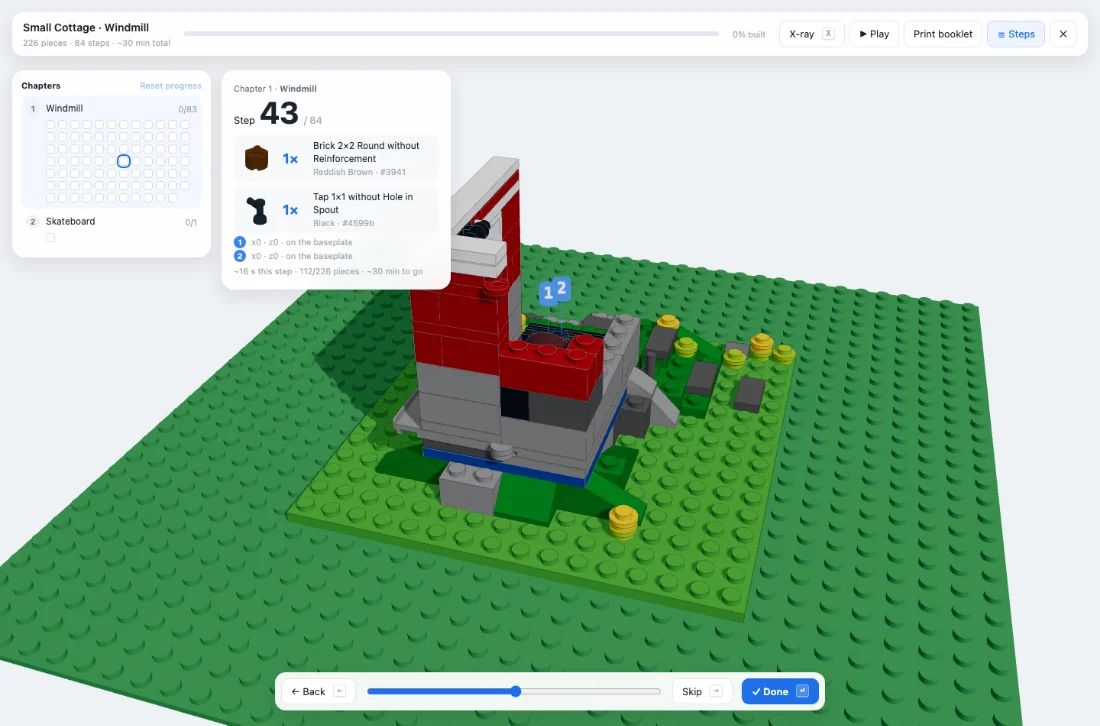
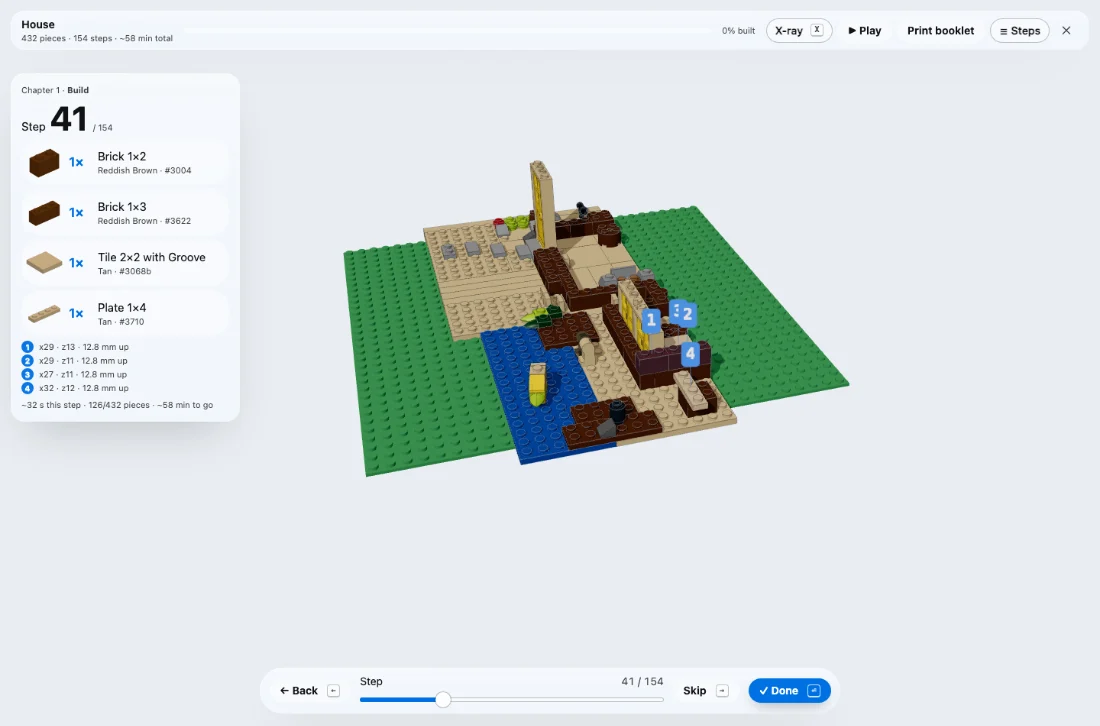
feat(home): show Brick-forge on Pane with the migrated interface; chain Kiln to Pane to Brick-forge

diff --git a/src/components/home/PaneModal.tsx b/src/components/home/PaneModal.tsx
@@ -6,10 +6,10 @@ import styles from './ProjectModal.module.css'
 import { PANE_PROJECT, PANE_STATS as P } from './paneData'
 
 const SECTIONS: ProjectSection[] = [
-  { label: 'The rules came first', body: "Before any component I wrote a short set of rules, and everything was held to them. The photo is part of the design. Glass shows the scene instead of covering it. Readability over a photo depends on the photo, which means every value comes from measuring real pixels. A formula can only guess. Each pane has one loud action, and a reader never has to choose between two equal ones. Pages meant for reading, like the docs, stay plain, because a photo only competes with the words. Glass is a mood and never carries meaning. When someone turns on reduced transparency or high contrast, the glass becomes solid surfaces and everything still works." },
-  { label: 'Calls that changed the design', body: "I picked the look from four rendered options. They were a visionOS-style grey glass, a milk frost, a smoked glass and a layered one. My first working version then laid a grey tint over the photo to keep the text readable, and it turned every photo into a flat grey panel. I rejected it. Pane now keeps the glass almost clear and darkens the photo behind it a little. Later I asked for thinner glass than the safest setting allowed. I kept it thin and wrote down exactly where a few words fall a little short, instead of pretending everything passes. I also made the docs plain. They first wore the glass look and were hard to read, and glass now appears only on the demos." },
+  { label: 'The rules came first', body: "Before any component I wrote a short set of rules, and everything was held to them. The photo is part of the design. Glass lets the scene show through. Readability over a photo depends on the photo, which means every value comes from measuring real pixels. A formula can only guess. Each pane has one loud action, and a reader never has to choose between two equal ones. Pages meant for reading, like the docs, stay plain, because a photo only competes with the words. Glass is a mood and never carries meaning. When someone turns on reduced transparency or high contrast, the glass becomes solid surfaces and everything still works." },
+  { label: 'Calls that changed the design', body: "I picked the look from four rendered options. They were a visionOS-style grey glass, a milk frost, a smoked glass and a layered one. My first working version then laid a grey tint over the photo to keep the text readable, and it turned every photo into a flat grey panel. I rejected it. Pane now keeps the glass almost clear and darkens the photo behind it a little. Later I asked for thinner glass than the safest setting allowed. I kept it thin and wrote down exactly where a few words fall a little short. I also made the docs plain. They first wore the glass look and were hard to read, and glass now appears only on the demos." },
   { label: 'Turning no into a check', body: "I looked at the first Banner and called it AI slop. It was a pattern library's notification with glass painted on top. The fault was in how we worked, because every component started from what other libraries do. Now each one starts from the reasons in those rules. The system proposes three options, I pick one, and only then is code written. A check blocks component code until that step is done. Each complaint I made went the same way. It changed the step that produced the problem and added a check that catches it. The same mistake can't come back quietly. Claude Code did much of the building. I set the direction, chose between options and said no." },
-  { label: 'What it can’t do yet', body: "A web page can’t see the photo behind a pane. The app has to tell Pane how bright its background is, and if it says the wrong thing, text becomes hard to read. I’ve only measured in Chrome, not Safari or Firefox. I haven’t tested with screen readers or real users. Ten of the early components came before the new process and are waiting to be redesigned. Pane isn’t on npm yet, and nobody else uses it." },
+  { label: 'What it can’t do yet', body: "A web page can’t see the photo behind a pane. The app has to tell Pane how bright its background is, and if it says the wrong thing, text becomes hard to read. I’ve only measured in Chrome, not Safari or Firefox. I haven’t tested with screen readers or real users. Ten of the early components came before the new process and are waiting to be redesigned. Pane isn’t on npm yet, and nobody else uses it. My own app, Brick-forge, runs on it, and its 3D scene is why Pane is getting an option to turn the blur off." },
 ]
 
 interface PaneModalProps {
@@ -27,7 +27,7 @@ export function PaneModal({ open, onClose }: PaneModalProps) {
       title="Making text readable on glass over a photo"
       intro={`Pane is a design system for glass-style interfaces, like the floating windows in visionOS, built for the web. I directed it and built it with Claude Code, using Kiln, a design-system plugin I made. It is live, with ${P.components} components and a docs site you can open. The hard part of glass is that the text sits on whatever photo is behind it, and Pane is built around keeping the words readable.`}
       sections={SECTIONS}
-      technical={`Pane ships as two packages. pane-tokens holds ${P.tokens} tokens in three tiers (primitive, semantic and component), built to CSS, JSON, ESM and SCSS. pane-react holds ${P.components} components and bundles the tokens. One import of pane-react/all.css is enough. Behaviour for Select, Slider, Checkbox, Radio and Switch comes from Radix and the look is Pane's. The tokens are built by my own script rather than Style Dictionary, because it needs to enforce the three tiers and catch name collisions. The docs site is built on Vite and React, and the contrast evidence comes from Playwright scripts that render each surface and read its pixels. The docs run on Cloudflare Pages and the code is on GitHub at tanawitchsaentree/pane-design-system. Kiln is public at github.com/tanawitchsaentree/Kiln.`}
+      technical={`Pane ships as two packages. pane-tokens holds ${P.tokens} tokens in three tiers (primitive, semantic and component), built to CSS, JSON, ESM and SCSS. pane-react holds ${P.components} components and bundles the tokens. One import of pane-react/all.css is enough. Behaviour for Select, Slider, Checkbox, Radio and Switch comes from Radix and the look is Pane's. The tokens are built by my own script, which enforces the three tiers and catches name collisions. The docs site is built on Vite and React, and the contrast evidence comes from Playwright scripts that render each surface and read its pixels. The docs run on Cloudflare Pages and the code is on GitHub at tanawitchsaentree/pane-design-system. Kiln is public at github.com/tanawitchsaentree/Kiln.`}
       url={PANE_PROJECT.docsUrl}
       linkLabel="Open the Pane docs"
       cover={

diff --git a/src/components/home/BrickForgeModal.tsx b/src/components/home/BrickForgeModal.tsx
@@ -9,7 +9,7 @@ const SECTIONS: ProjectSection[] = [
   {
     label: 'It starts from a designer’s model',
     body: "Every result says where it came from, like “From Apple Tree House, 1 stud longer”. The engine keeps the designer’s parts, copies a middle section and rebuilds only the seams. It learns from about 545 official LEGO designs, and every result is still the designer’s model with a change made to it. A My pieces switch shows how many parts you would still need to buy for each design.",
-    figure: { src: '/images/brickforge-studio.webp', alt: 'Three house designs in the Brick-forge studio, each labelled with the official set it came from, how it was changed and how much of it is held together.', caption: 'Three houses from three official sets (LDraw Official Model Repository, CC BY 2.0). Each card shows what it was changed from and how much of it is held together.', width: 1000, height: 726 },
+    figure: { src: '/images/brickforge-studio.webp', alt: 'Three house designs in the Brick-forge studio, each labelled with the official set it came from, how it was changed and how much of it is held together.', caption: 'Three houses from two official sets (LDraw Official Model Repository, CC BY 2.0). Each card shows what it was changed from, including a recolour, and how much of it is held together.', width: 1000, height: 756 },
   },
   {
     label: 'Why it edits real designs',
@@ -23,7 +23,12 @@ const SECTIONS: ProjectSection[] = [
   {
     label: 'Instructions that follow the designer',
     body: "Official and imported models keep the designer’s own step order, split into small steps. Progress is saved and the booklet prints. It can also read a LEGO instruction PDF and match the parts it draws to the parts list.",
-    figure: { src: '/images/brickforge-steps.webp', alt: 'The step view of a small cottage at step 43 of 84, listing two parts for the step and showing the model on a green baseplate.', caption: 'Step 43 of 84 for the windmill on a small cottage, in the designer’s order.', width: 1100, height: 726 },
+    figure: { src: '/images/brickforge-steps.webp', alt: 'The step view of a generated house at step 41 of 154, listing four parts for the step and showing the model on a green baseplate.', caption: 'Step 41 of 154 for a generated house.', width: 1100, height: 726 },
+  },
+  {
+    label: 'It runs on Pane',
+    body: "The interface is built on Pane, the design system I made with Kiln. This app was its first real test. The 3D scene redraws every frame, which showed that Pane needed a way to switch the blur off, and that option is coming in its next version. Brick-forge itself uses a thinner glass than Pane’s default, which Pane’s readability checks don’t cover, and I haven’t measured the frame rate over the 3D scene.",
+    figure: { src: '/images/brickforge-app.webp', alt: 'The Brick-forge editor with a brown and green house on a baseplate, a parts list on the left and the tool bar at the bottom.', caption: 'The editor. Panels, tabs, buttons and sliders are Pane components.', width: 900, height: 743 },
   },
   {
     label: 'Calls I made',
@@ -51,7 +56,7 @@ export function BrickForgeModal({ open, onClose }: BrickForgeModalProps) {
       title="A brick builder that edits real LEGO designs"
       intro="My kids and I build with LEGO. We have a pile of bricks, and sometimes none of us can think of what to make. The fun is in building on and on, especially after a new box set, when we finish the model from the instructions and then play with it. Brick-forge is for the moments we run out of ideas. It takes a real LEGO design and makes a new version of it, like a house a stud longer or a car a stud wider, with building steps. I directed it and built it with Claude Code."
       sections={SECTIONS}
-      technical="React, Three.js through React Three Fiber and TypeScript. On the corpus, the connection check registers 97.8% of parts as connected. Rebuilding eight official designs from their outline reaches about 0.38 on my own benchmark, where the original designer scores 1.0. Parts come from the LDraw library (CC BY 4.0) and the official models from the LDraw Official Model Repository (CC BY 2.0). The library is about 620 MB, which is too big to ship. The live site serves it from Cloudflare R2 through a small function and loads a pre-parsed pack of the most used parts first. The code is at github.com/tanawitchsaentree/brick-forge, which holds only the first version. LEGO is a trademark of the LEGO Group, which doesn’t sponsor or endorse this project."
+      technical="React, Three.js through React Three Fiber and TypeScript, with the interface on pane-react 0.3.0. On the corpus, the connection check registers 97.8% of parts as connected. Rebuilding eight official designs from their outline reaches about 0.38 on my own benchmark, where the original designer scores 1.0. Parts come from the LDraw library (CC BY 4.0) and the official models from the LDraw Official Model Repository (CC BY 2.0). The library is about 620 MB, which is too big to ship. The live site serves it from Cloudflare R2 through a small function and loads a pre-parsed pack of the most used parts first. The code is at github.com/tanawitchsaentree/brick-forge, which holds only the first version. LEGO is a trademark of the LEGO Group, which doesn’t sponsor or endorse this project."
       url={BRICKFORGE_PROJECT.url}
       linkLabel={BRICKFORGE_PROJECT.linkLabel}
       cover={

diff --git a/src/components/home/KilnModal.tsx b/src/components/home/KilnModal.tsx
@@ -6,10 +6,10 @@ import styles from './ProjectModal.module.css'
 import { KILN_PROJECT } from './kilnData'
 
 const SECTIONS: ProjectSection[] = [
-  { label: 'Borrow from somewhere real', body: "Before Kiln writes a single token, the system has to name a real tradition from outside web design and say what it borrows from it. Pane started from a Bauhaus curtain wall. The same decision also sets how strongly the system speaks on six scales. Everything after that, the tokens, the components, the docs, comes from that choice instead of from the usual defaults." },
-  { label: 'Numbers, not opinions', body: "A design system makes claims about contrast, spacing, shape and density. Kiln attaches a script to each one. The answer is a number you can run and read. Spacing is measured in a real browser instead of judged by eye." },
+  { label: 'Borrow from somewhere real', body: "Before Kiln writes a single token, the system has to name a real tradition from outside web design and say what it borrows from it. Pane started from a Bauhaus curtain wall. The same decision also sets how strongly the system speaks on six scales. Everything after that, the tokens, the components, the docs, comes from that choice." },
+  { label: 'Numbers, not opinions', body: "A design system makes claims about contrast, spacing, shape and density. Kiln attaches a script to each one. The answer is a number you can run and read. Spacing is measured in a real browser." },
   { label: 'Whoever proposes does not judge', body: "When the system needs options for something that defines its identity, one role generates candidates that are really different from each other, and a different role judges them. I review what it picked. It stops the part that wrote an idea from grading its own homework." },
-  { label: 'What it has made', body: "Pane is the first design system built from start to finish with Kiln, and it is also where Kiln got corrected. Every time I rejected something, the fix went into the step that produced it, plus a check to catch it next time. The Pane entry tells that story." },
+  { label: 'What it has made', body: "Pane is the first design system built from start to finish with Kiln, and it is also where Kiln got corrected. Every time I rejected something, the fix went into the step that produced it, plus a check to catch it next time. The Pane entry tells that story, and my brick builder, Brick-forge, now runs on Pane." },
   { label: 'What it can’t do yet', body: "Kiln guides Claude Code and does not replace judgement. I still choose the look, say no to bad work and read the results. It has only built my own projects, two of them to date. Version 2.0 is on GitHub now." },
 ]
 
